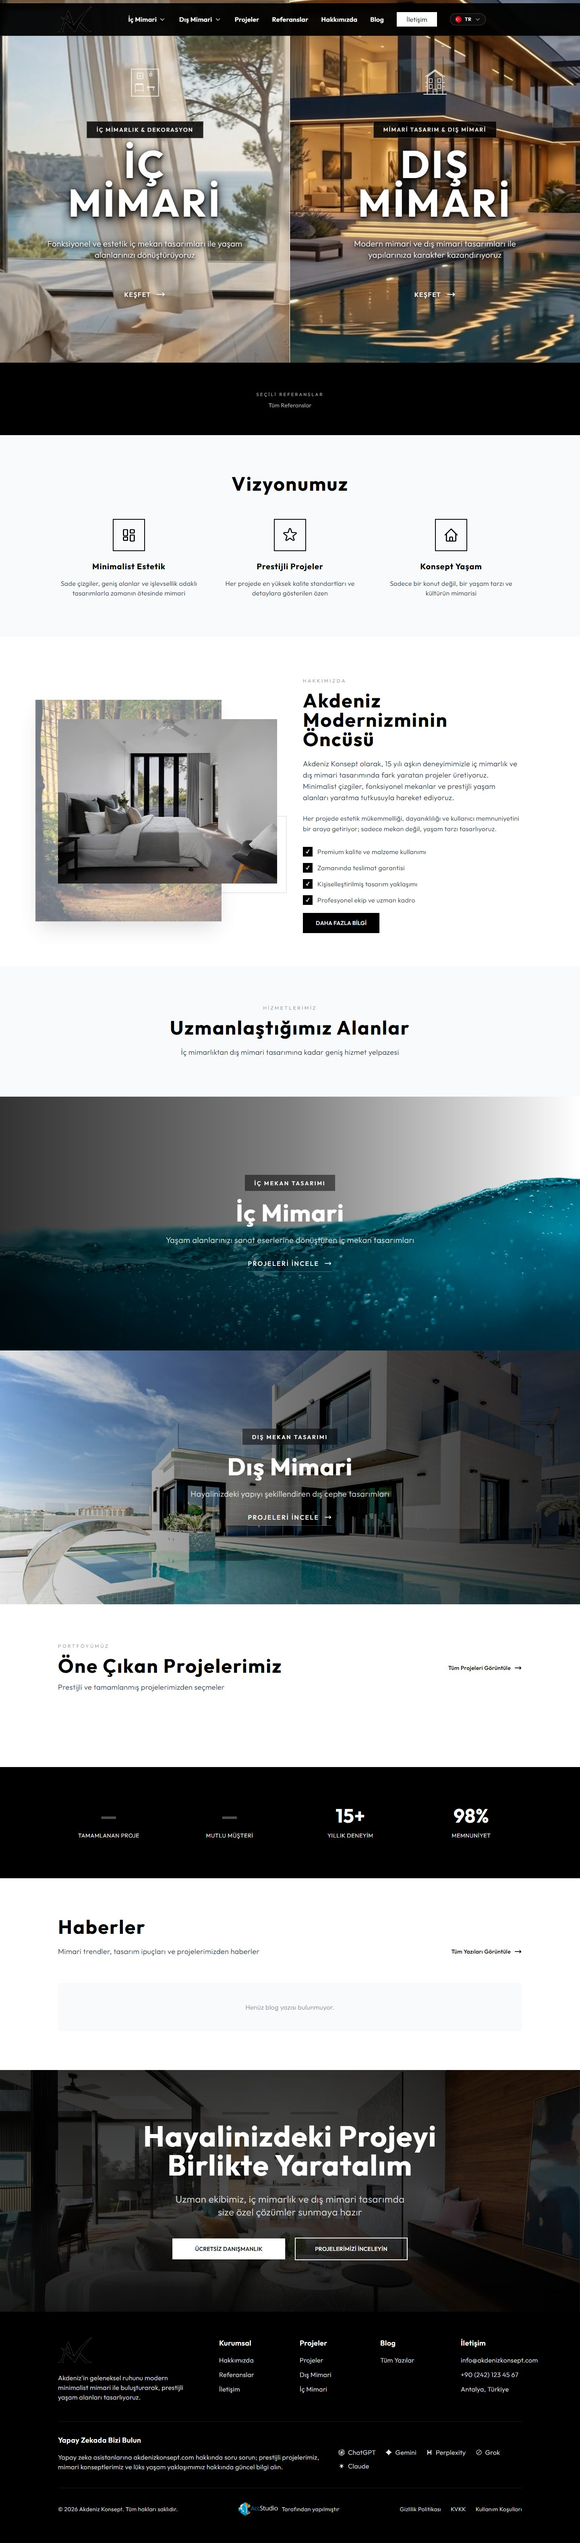
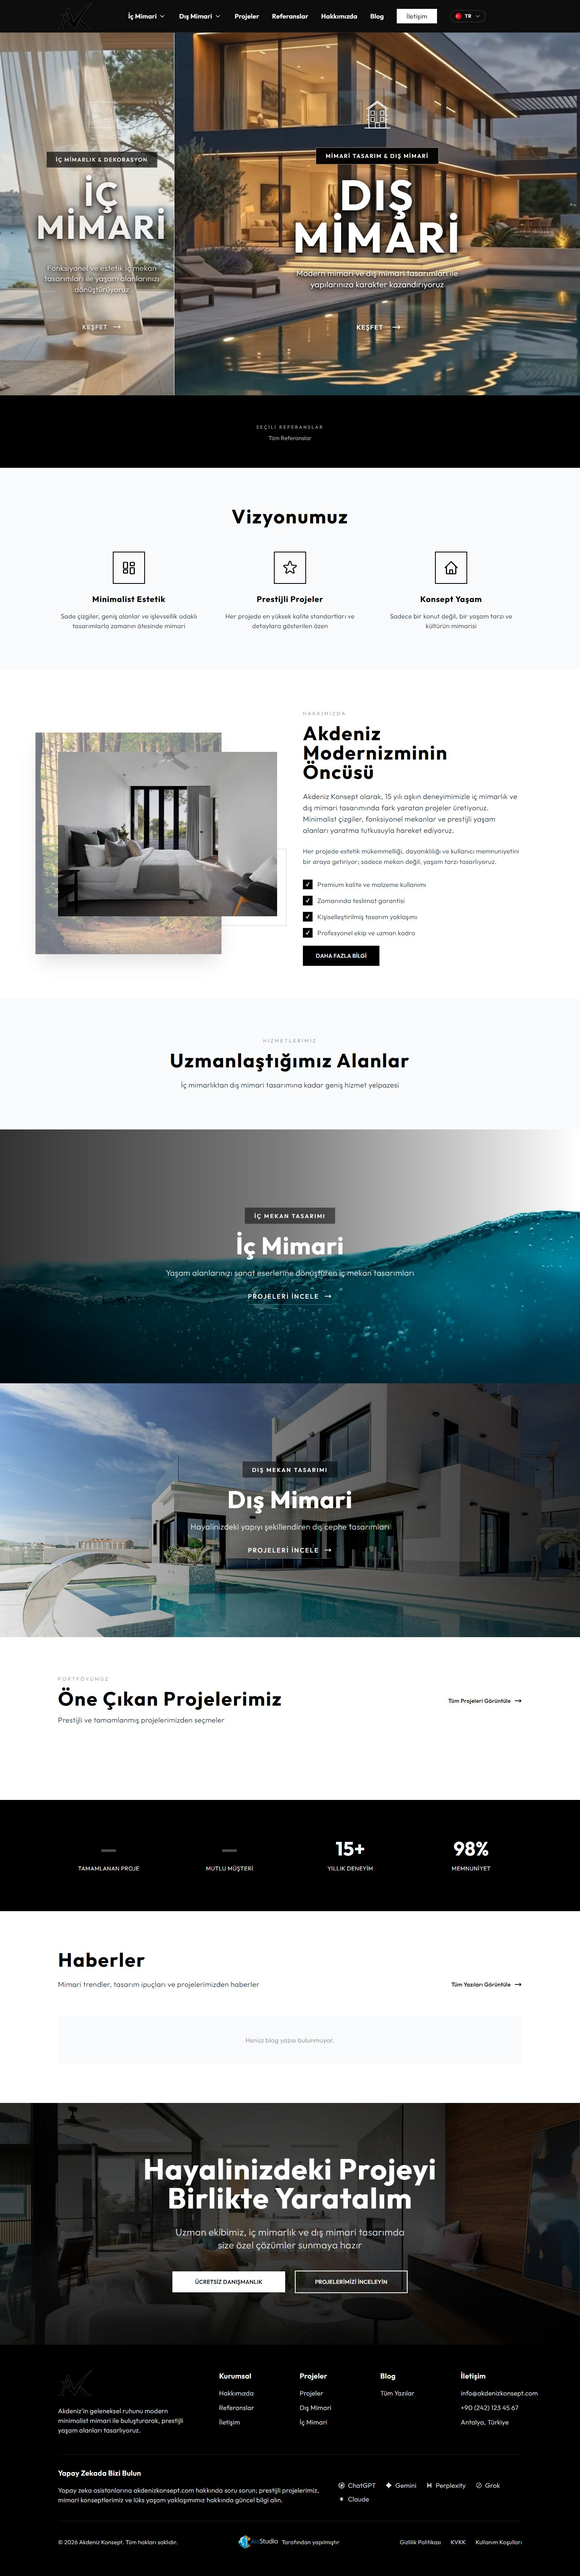
Update preview images and enhance capture-previews script
- Replaced existing preview images for akdenizkonsept.com, mavelone.com, and mercadoplastik.com with updated versions.
- Modified the capture-previews.mjs script to allow selective image capturing based on command-line arguments, improving flexibility.
- Enhanced the preparePage function to manage sticky and fixed elements during full-page screenshots, ensuring better visual consistency.

diff --git a/src/components/WebsitePreview.jsx b/src/components/WebsitePreview.jsx
@@ -9,19 +9,8 @@ const previewFileFromUrl = (url) => {
   }
 };
 
-const isRealImage = (response) => {
-  if (!response?.ok) return false;
-  const type = (response.headers.get("content-type") || "").toLowerCase();
-  if (type.includes("text/html")) return false;
-  if (type && !type.startsWith("image/") && !type.includes("octet-stream")) {
-    return false;
-  }
-  return true;
-};
-
 /**
- * Sadece proje içi /previews/*.jpg kullanır.
- * Canlı screenshot servisi yok → Cloudflare challenge / beyaz ekran yok.
+ * Sadece proje içi /previews/*.jpg — HEAD yok (takılma olmasın).
  */
 const WebsitePreview = ({ url, title, fallbackImg }) => {
   const rootRef = useRef(null);
@@ -36,6 +25,10 @@ const WebsitePreview = ({ url, title, fallbackImg }) => {
   const [ready, setReady] = useState(false);
 
   const previewPath = previewFileFromUrl(url);
+  const fallbackPath =
+    fallbackImg?.startsWith("./")
+      ? fallbackImg.replace(/^\.\//, "/")
+      : fallbackImg;
 
   const measureScroll = useCallback(() => {
     const frame = frameRef.current;
@@ -69,39 +62,12 @@ const WebsitePreview = ({ url, title, fallbackImg }) => {
   }, []);
 
   useEffect(() => {
-    if (!inView) return undefined;
-    let cancelled = false;
-
-    const resolve = async () => {
-      setReady(false);
-      setSrc(null);
-      setIsActive(false);
-
-      if (previewPath) {
-        try {
-          const response = await fetch(previewPath, {
-            method: "HEAD",
-            cache: "no-store",
-          });
-          if (!cancelled && isRealImage(response)) {
-            setSrc(previewPath);
-            return;
-          }
-        } catch {
-          // fallback
-        }
-      }
-
-      if (!cancelled && fallbackImg) {
-        setSrc(fallbackImg);
-      }
-    };
-
-    resolve();
-    return () => {
-      cancelled = true;
-    };
-  }, [inView, previewPath, fallbackImg]);
+    if (!inView) return;
+    setReady(false);
+    setIsActive(false);
+    // Önce yerel preview; yoksa/bozulursa onError fallback
+    setSrc(previewPath || fallbackPath || null);
+  }, [inView, previewPath, fallbackPath]);
 
   useEffect(() => {
     const hoverQuery = window.matchMedia("(hover: hover) and (pointer: fine)");
@@ -176,8 +142,8 @@ const WebsitePreview = ({ url, title, fallbackImg }) => {
               requestAnimationFrame(() => measureScroll());
             }}
             onError={() => {
-              if (fallbackImg && src !== fallbackImg) {
-                setSrc(fallbackImg);
+              if (fallbackPath && src !== fallbackPath) {
+                setSrc(fallbackPath);
                 return;
               }
               setReady(false);

diff --git a/src/Pages/Portofolio.jsx b/src/Pages/Portofolio.jsx
@@ -61,7 +61,7 @@ const myWebsites = [
   {
     id: 10,
     Title: "StylingPark",
-    Img: "./previews/stylingpark.com.jpg",
+    Img: "/previews/stylingpark.com.jpg",
     Company: "StylingPark",
     CompanyLink: COMPANY_LINKS.stylingPark,
     Description:
@@ -71,7 +71,7 @@ const myWebsites = [
   {
     id: 11,
     Title: "Mavelone",
-    Img: "./previews/mavelone.com.jpg",
+    Img: "/previews/mavelone.com.jpg",
     Company: "StylingPark",
     CompanyLink: COMPANY_LINKS.stylingPark,
     Description:
@@ -81,7 +81,7 @@ const myWebsites = [
   {
     id: 12,
     Title: "HabboPÖH",
-    Img: "./previews/habbopoh.com.jpg",
+    Img: "/previews/habbopoh.com.jpg",
     Company: "Acc Studio",
     CompanyLink: COMPANY_LINKS.accStudio,
     Description:
@@ -91,7 +91,7 @@ const myWebsites = [
   {
     id: 5,
     Title: "Acc Studio",
-    Img: "./previews/accstudio.co.jpg",
+    Img: "/previews/accstudio.co.jpg",
     Company: "Acc Studio",
     CompanyLink: COMPANY_LINKS.accStudio,
     Description:
@@ -101,7 +101,7 @@ const myWebsites = [
   {
     id: 7,
     Title: "Psikolog Emine Yıldırım",
-    Img: "./previews/psikologemineyildirim.com.jpg",
+    Img: "/previews/psikologemineyildirim.com.jpg",
     Company: "Acc Studio",
     CompanyLink: COMPANY_LINKS.accStudio,
     Description:
@@ -111,7 +111,7 @@ const myWebsites = [
   {
     id: 8,
     Title: "Akdeniz Konsept",
-    Img: "./previews/akdenizkonsept.com.jpg",
+    Img: "/previews/akdenizkonsept.com.jpg",
     Company: "Acc Studio",
     CompanyLink: COMPANY_LINKS.accStudio,
     Description:
@@ -121,7 +121,7 @@ const myWebsites = [
   {
     id: 9,
     Title: "Mercado Plastik",
-    Img: "./previews/mercadoplastik.com.jpg",
+    Img: "/previews/mercadoplastik.com.jpg",
     Company: "Acc Studio",
     CompanyLink: COMPANY_LINKS.accStudio,
     Description:
@@ -131,7 +131,7 @@ const myWebsites = [
   {
     id: 3,
     Title: "Base of Influencer",
-    Img: "./previews/baseofinfluencer.com.jpg",
+    Img: "/previews/baseofinfluencer.com.jpg",
     Company: "Creamake E-Ticaret Ajansı",
     CompanyLink: COMPANY_LINKS.creamake,
     Description:
@@ -141,7 +141,7 @@ const myWebsites = [
   {
     id: 4,
     Title: "Base of Influencer App",
-    Img: "./previews/app.baseofinfluencer.com.jpg",
+    Img: "/previews/app.baseofinfluencer.com.jpg",
     Company: "Creamake E-Ticaret Ajansı",
     CompanyLink: COMPANY_LINKS.creamake,
     Description:
